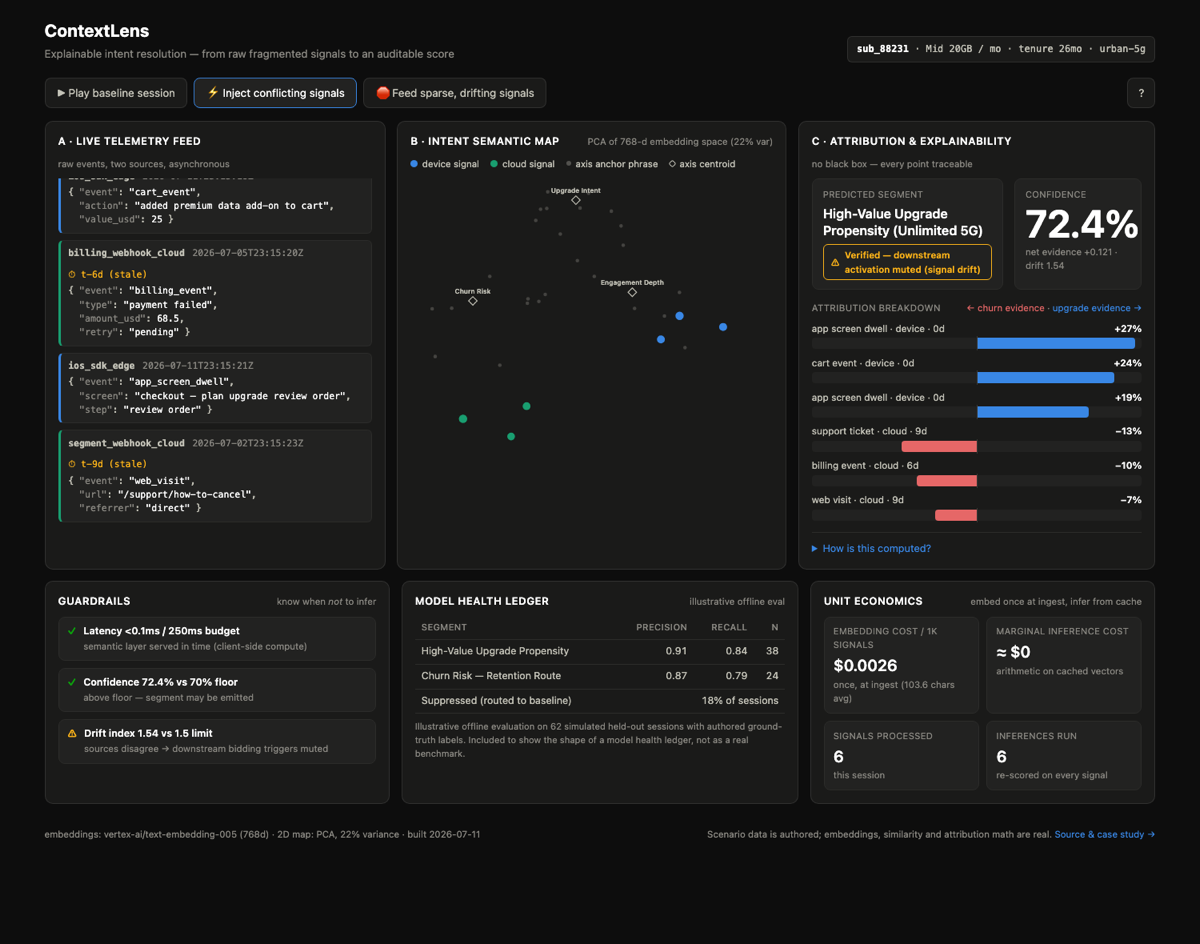
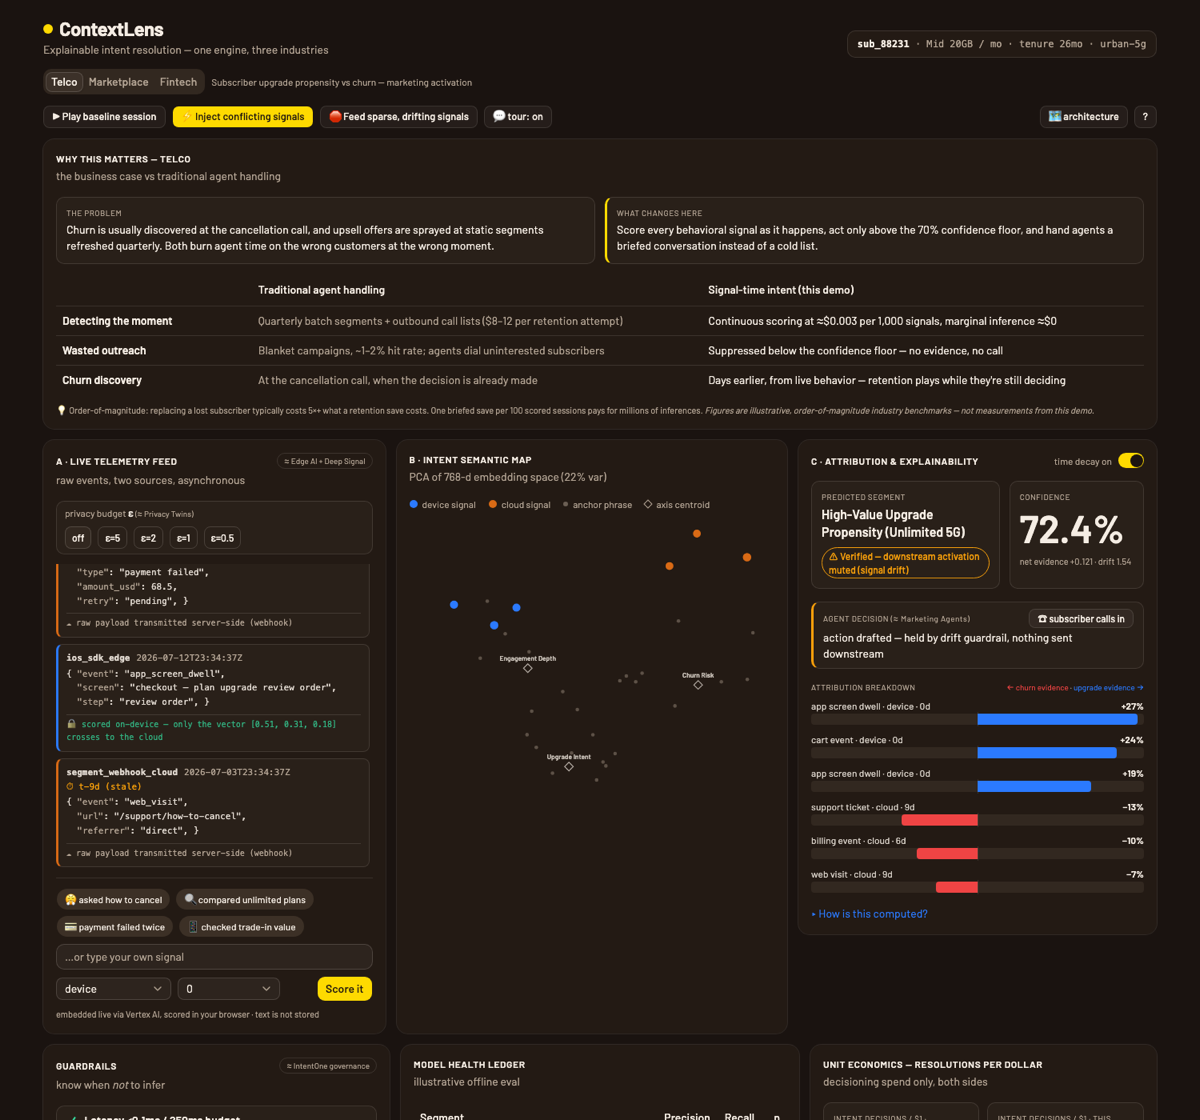
docs: refresh README, screenshot and og image to current build
Deep-link reference covers all params; business-case and
resolutions-per-dollar documented; honesty table gains a row for the
illustrative business figures; visuals regenerated from the shadcn
multi-vertical build.

Claude-Session: https://claude.ai/code/session_01YWZEBcryfM9GFvsCj1qdGd

diff --git a/README.md b/README.md
@@ -24,9 +24,10 @@ decay half-life is per-domain: delivery context decays at λ=0.45/day, telco int
 at λ=0.13/day — staleness is a product decision, not a constant.
 
 **Live demo:** https://contextlens.hireme.jmkn.tech
-(deep links: [`?play=baseline`](https://contextlens.hireme.jmkn.tech/?play=baseline) ·
-[`?play=conflict`](https://contextlens.hireme.jmkn.tech/?play=conflict) ·
-[`?play=sparse`](https://contextlens.hireme.jmkn.tech/?play=sparse))
+
+Deep links compose: `?vertical=telco|marketplace|fintech` · `?play=baseline|conflict|sparse` ·
+`?decay=0` (counterfactual) · `?eps=1` (privacy budget) · `?call=1` (agent console) — e.g.
+[the fintech conflict with the agent console open](https://contextlens.hireme.jmkn.tech/?vertical=fintech&play=conflict&call=1).
 
 ![ContextLens — conflict scenario](docs/screenshot-conflict.png)
 
@@ -67,6 +68,11 @@ Beyond the scripted scenarios:
 - **Privacy boundary** — every device event shows what actually crossed to the
   cloud: a 3-number vector, not the raw payload. Cloud webhooks are labeled as
   server-side.
+- **Business case per vertical** — a "why this matters" card leads each tab:
+  problem, what changes, a comparison table vs traditional agent handling, and
+  unit economics reframed as **resolutions per dollar** (0.2 triage decisions/$1
+  traditional vs ~80k intent decisions/$1 here — decisioning spend only, with an
+  explicit decision-≠-outcome footnote).
 - **Agent console** (`?call=1`, or "☎ subscriber calls in") — the same engine
   consumed by a human in real time: a support-agent screen-pop with the top
   signals in plain speech and a guardrail-gated play. In the conflict scenario
@@ -90,6 +96,7 @@ Honesty table — this demo argues against black boxes, so it doesn't get to be 
 | 2D semantic map | **Real projection.** PCA of the embedding space (variance shown in the UI). |
 | Model health ledger (precision/recall) | **Illustrative.** Labeled as such in the UI — scoring a simulator against its own authored ground truth would be circular theater. |
 | Latency guardrail | **Real measurement, simulated stakes.** Actual client-side compute time against a 250ms budget. |
+| Business-case figures (ticket costs, WISMO rates, resolutions/$) | **Illustrative.** Order-of-magnitude public industry benchmarks, labeled as such in the UI — not measurements from this demo. |
 | Live signal scoring | **Real, end to end.** Your text → Vertex AI embedding → same centroids, same softmax, same PCA transform as the precomputed signals (`api/`, a small FastAPI service on Cloud Run). |
 
 ## How the score is computed